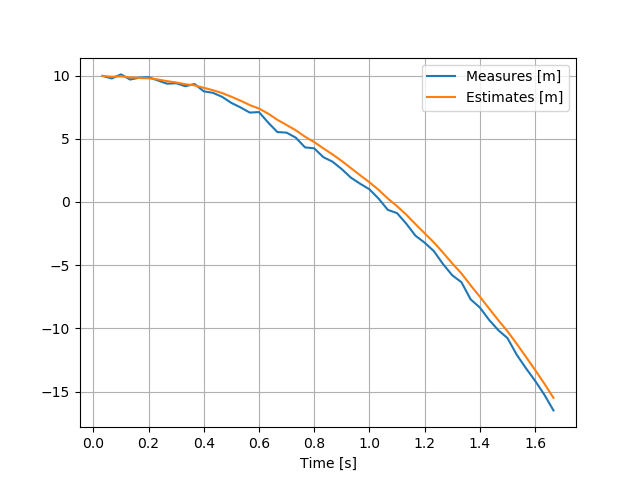
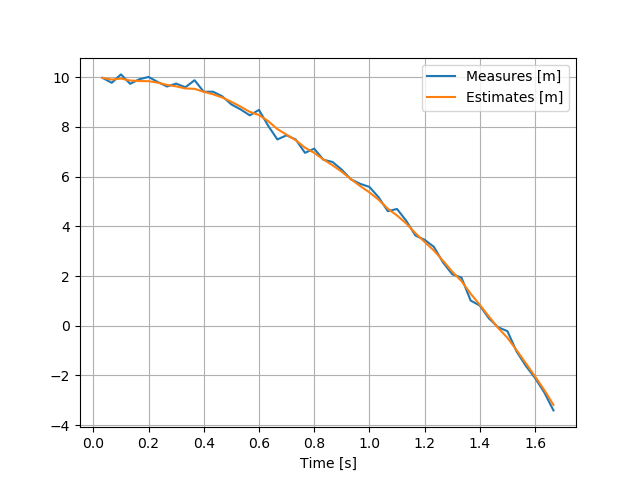
fix process update law

diff --git a/example.cpp b/example.cpp
@@ -20,7 +20,7 @@ int main() {
     std::normal_distribution<double> measure_noise(0., .2);
     auto t = 0.;
     for (int i = 0; i < 50; ++i) {
-        measurements[i] = 10. - 9.81 * pow(t, 2) + measure_noise(generator);
+        measurements[i] = 10. - 9.81 / 2. * pow(t, 2) + measure_noise(generator);
         t += dt;
     }
 
